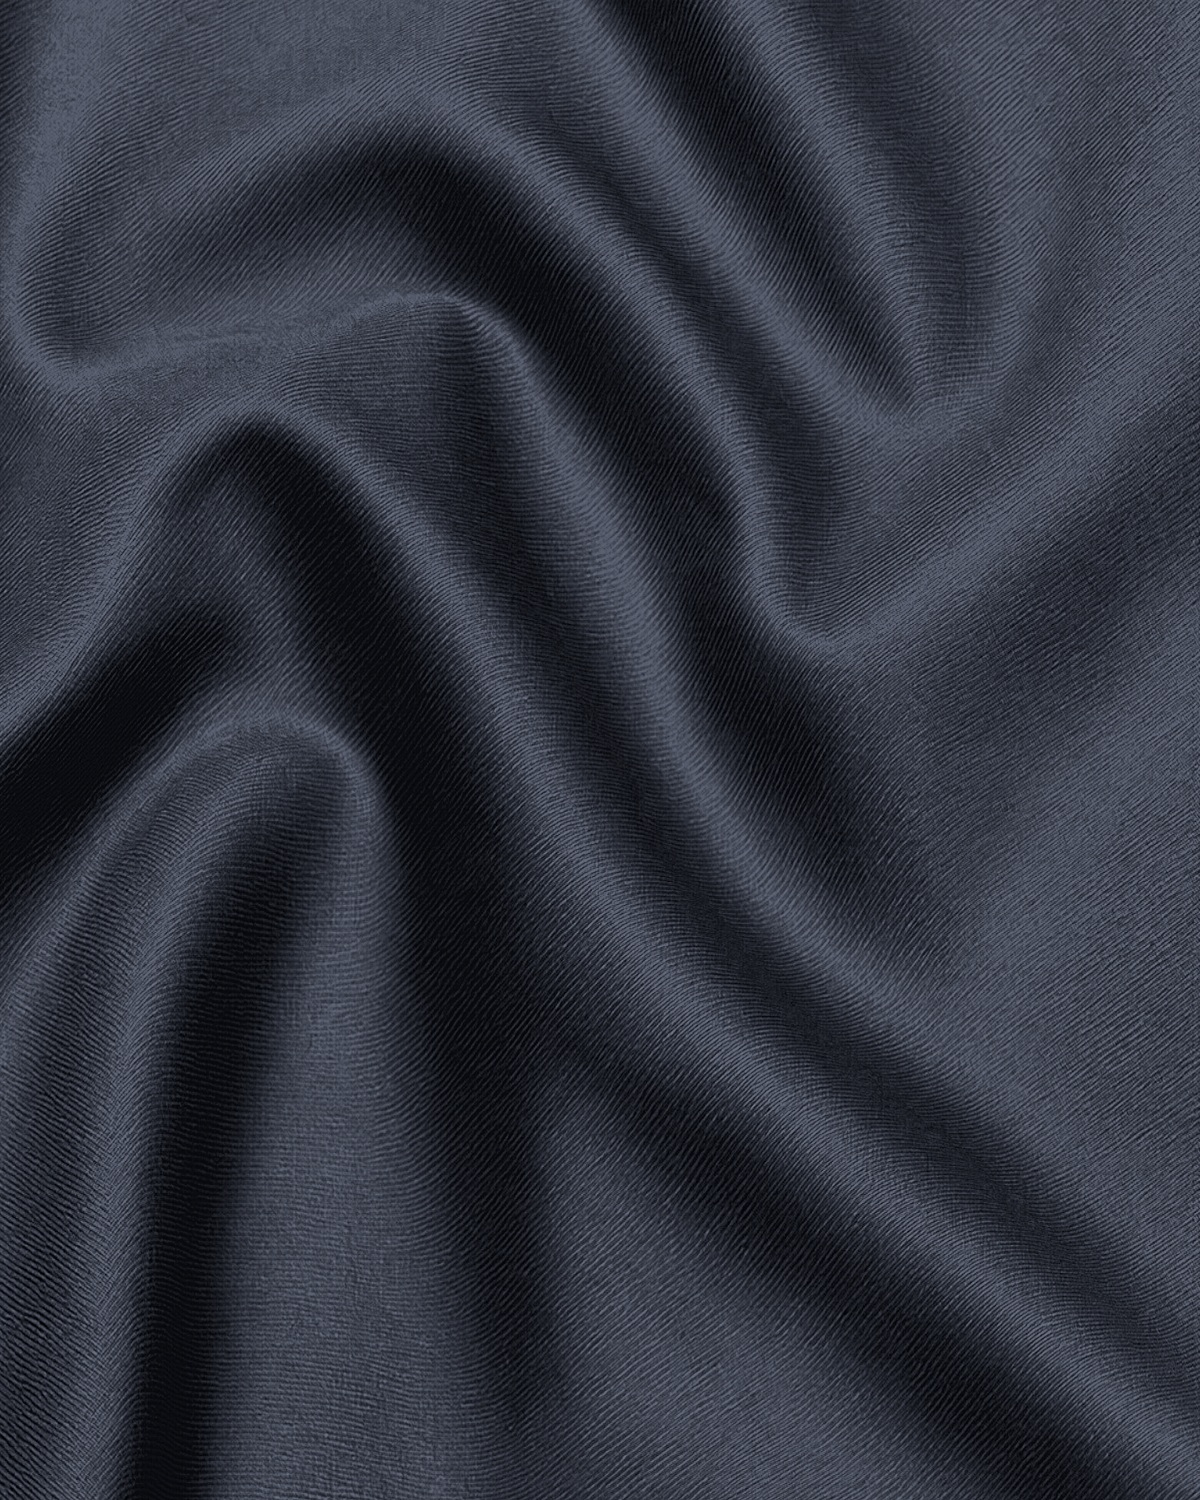
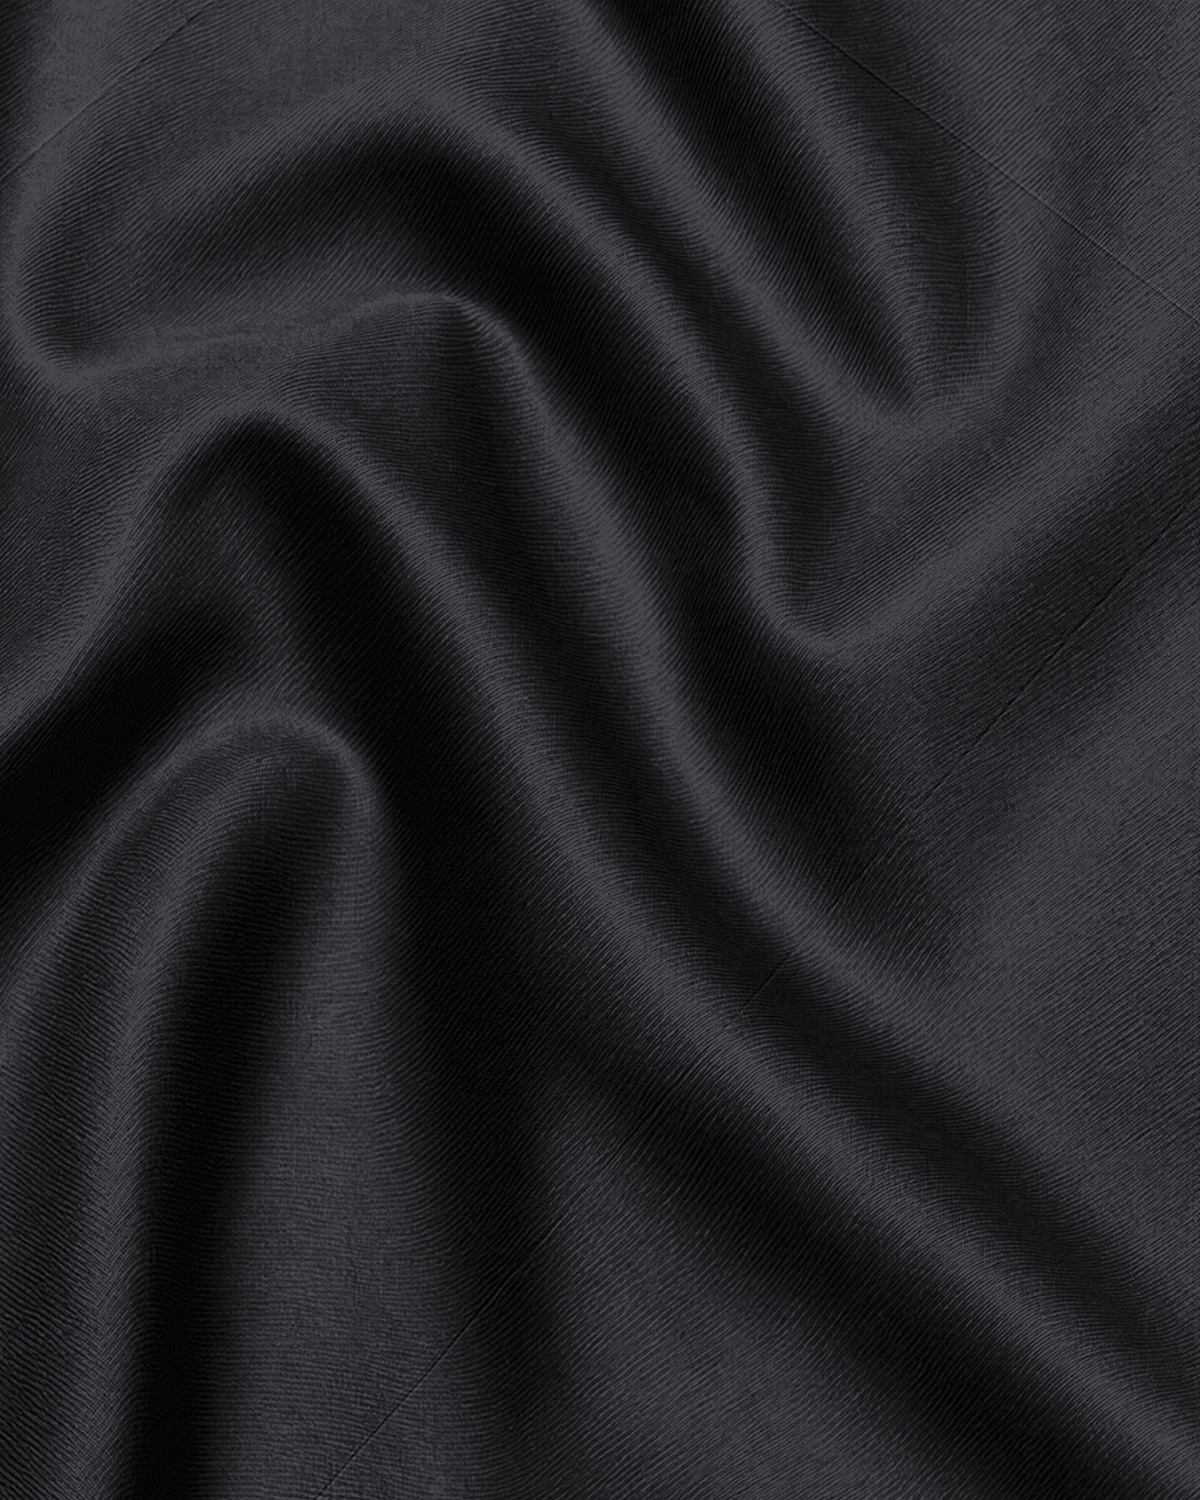
Match Noir shade colours and weave to Article 04 catalogue PDF.
Sample Aswad, Layl, Zulmat, and Neel from the official FEELINGS PDF and apply
those hues plus catalogue cloth texture onto the draped product photos.

diff --git a/src/data/catalog.ts b/src/data/catalog.ts
@@ -428,28 +428,28 @@ export const products: Product[] = [
       {
         id: "fea-04-01",
         name: "Aswad — Jet Black",
-        hex: "#141414",
+        hex: "#090908",
         available: true,
         imageIds: ["fea-04-01-studio", "fea-04-01-fill", "fea-04-01-detail"],
       },
       {
         id: "fea-04-02",
         name: "Layl — Ink Black",
-        hex: "#1a1f26",
+        hex: "#14171a",
         available: true,
         imageIds: ["fea-04-02-studio", "fea-04-02-fill", "fea-04-02-detail"],
       },
       {
         id: "fea-04-03",
         name: "Zulmat — Deep Charcoal",
-        hex: "#2a2926",
+        hex: "#171811",
         available: true,
         imageIds: ["fea-04-03-studio", "fea-04-03-fill", "fea-04-03-detail"],
       },
       {
         id: "fea-04-04",
         name: "Neel — Midnight Navy",
-        hex: "#1a2740",
+        hex: "#1a1a21",
         available: true,
         imageIds: ["fea-04-04-studio", "fea-04-04-fill", "fea-04-04-detail"],
       },
